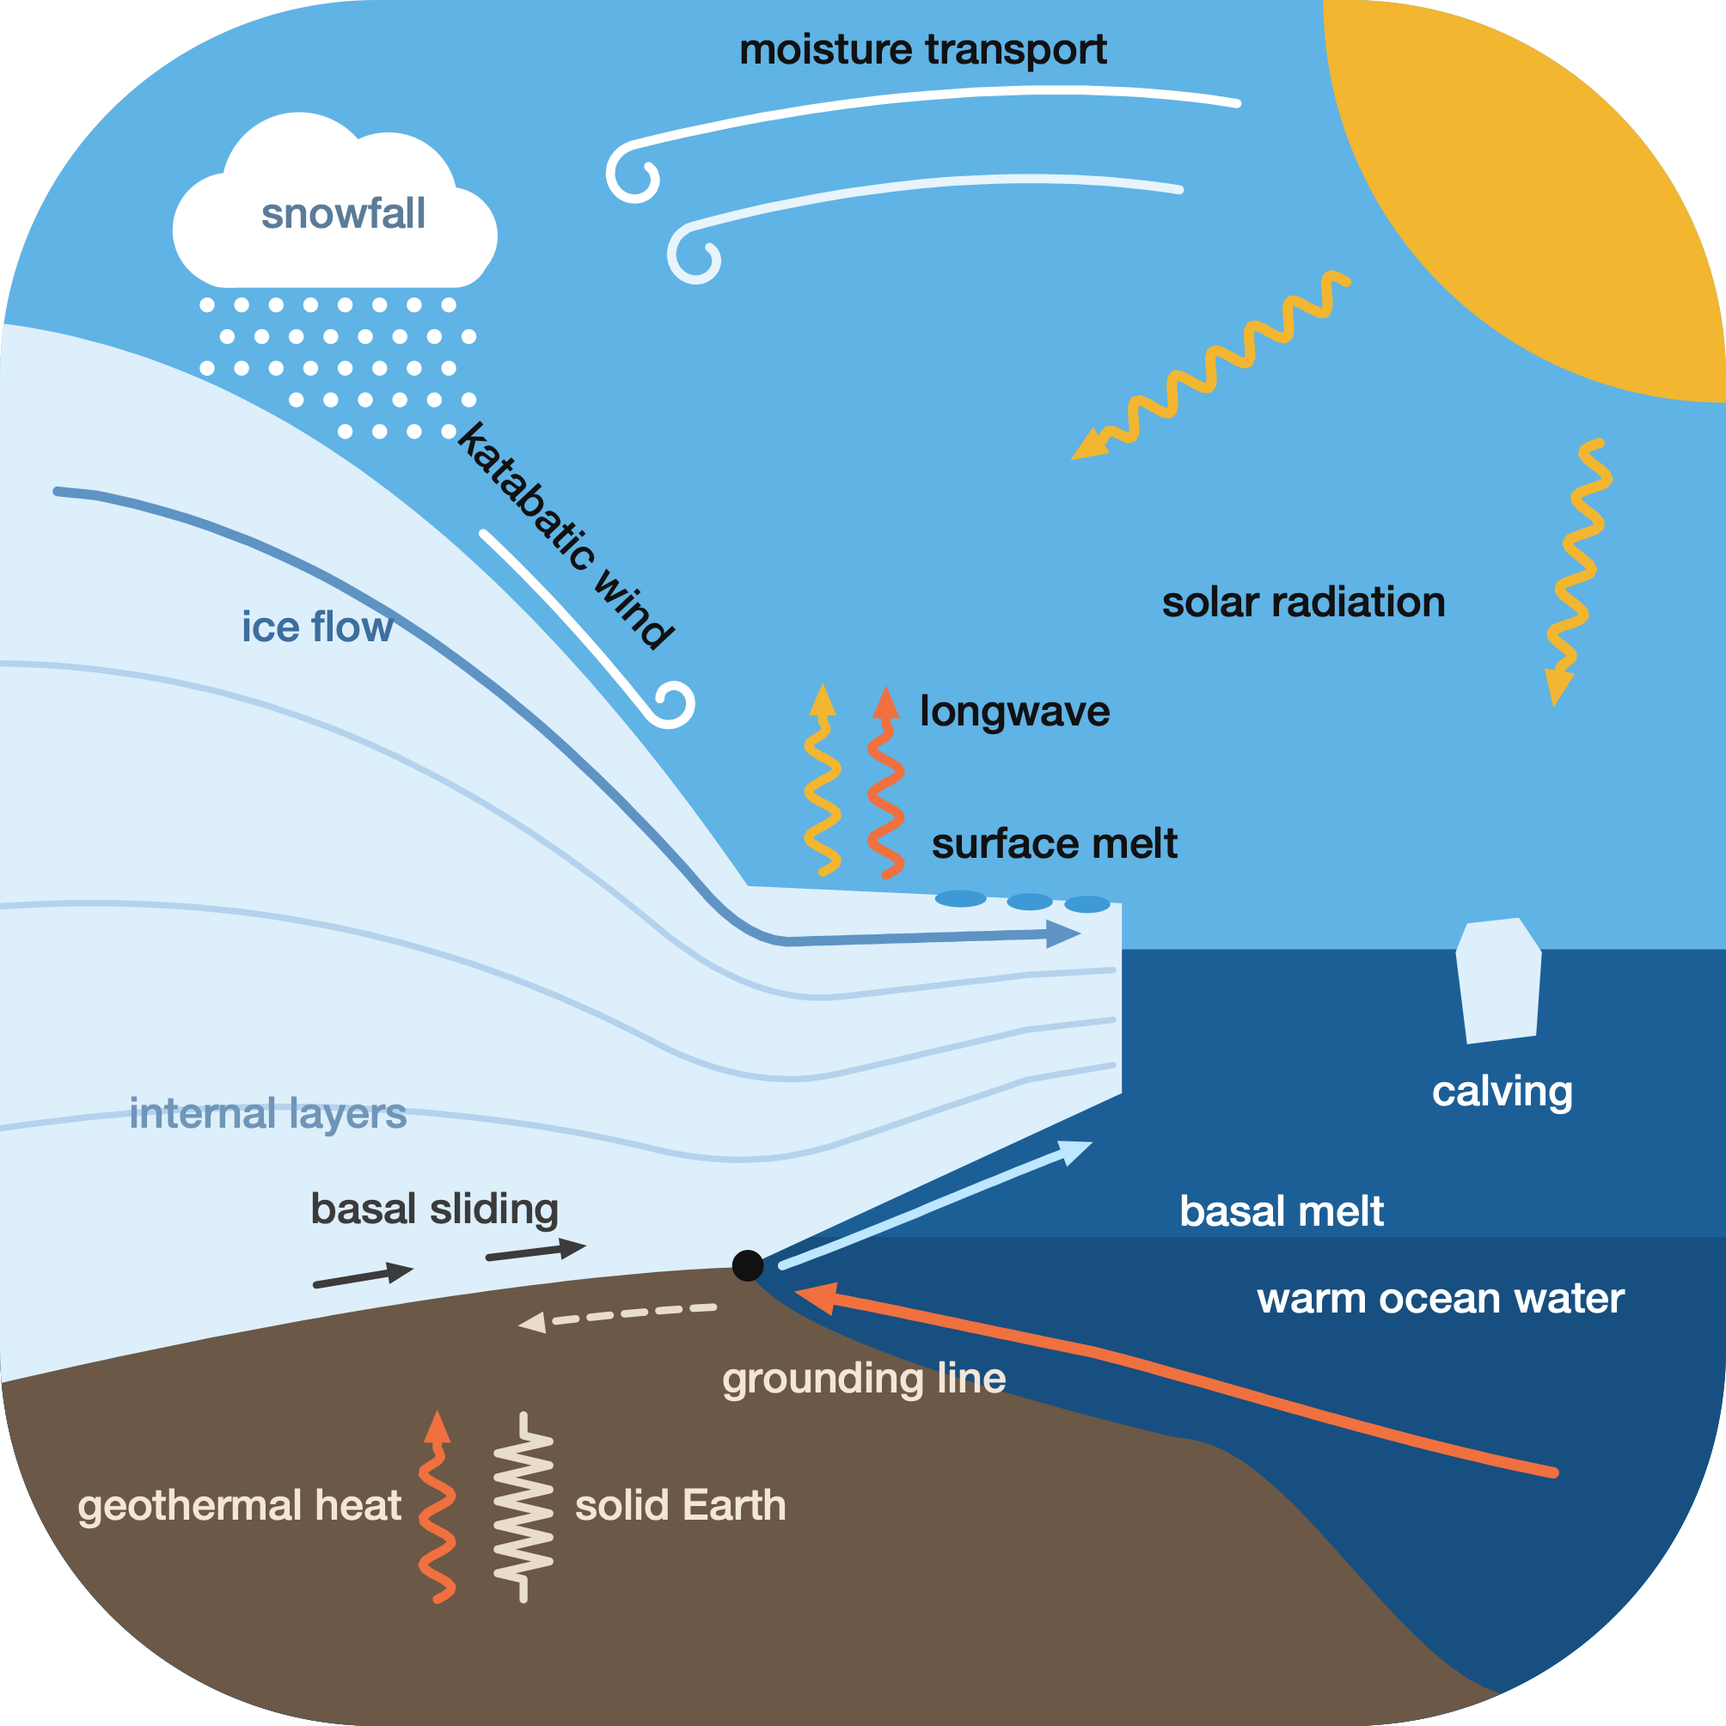
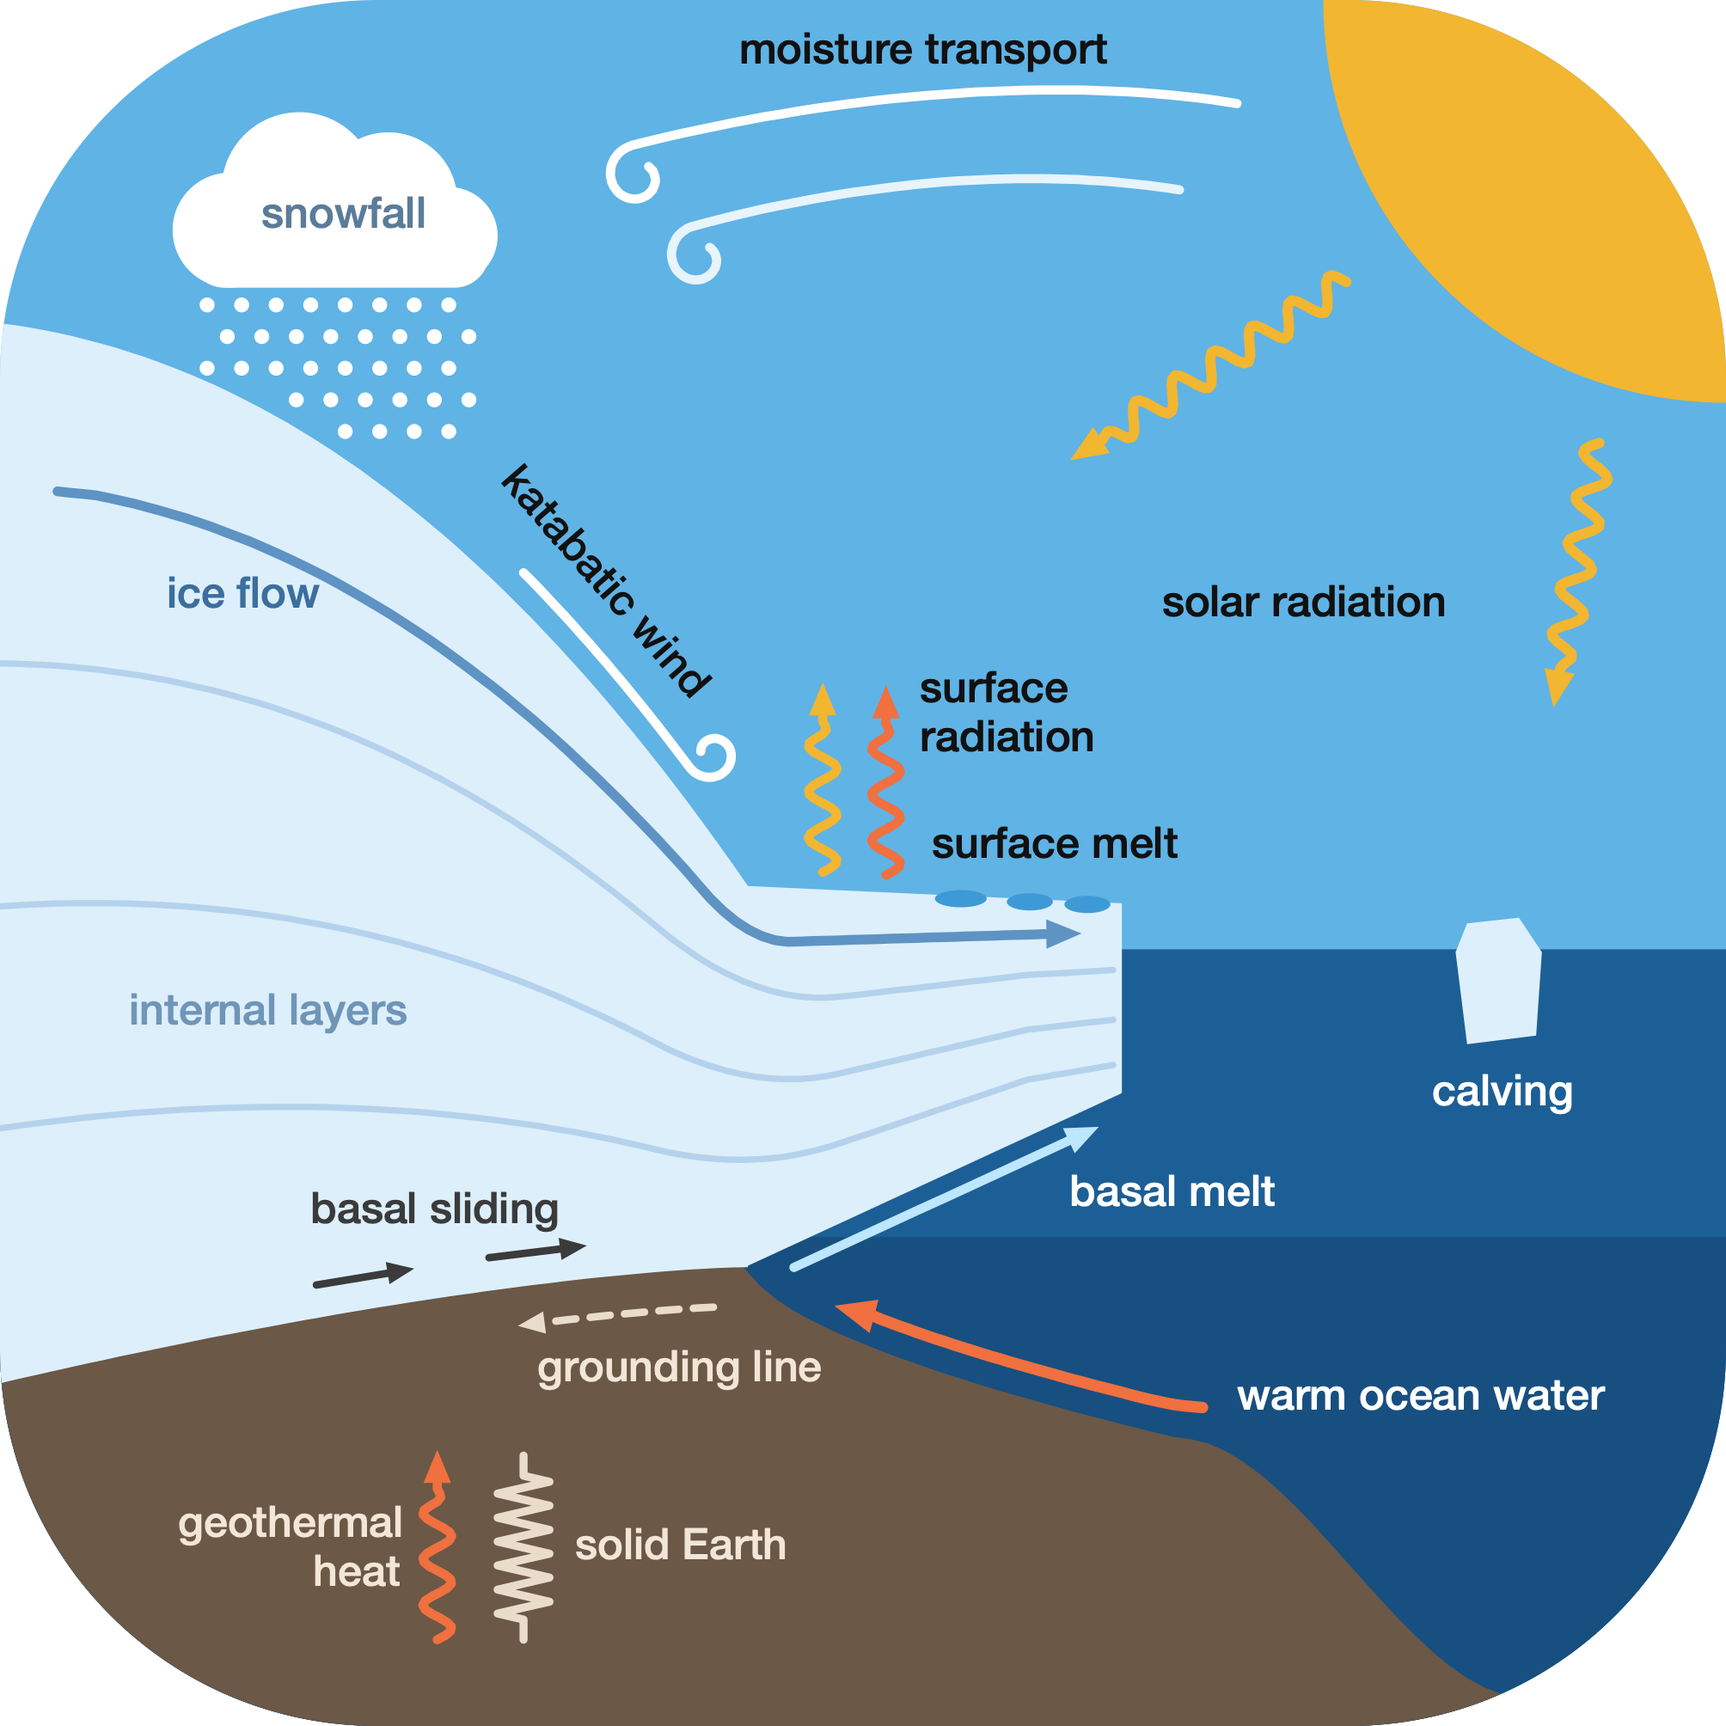
Refine illustration: bed-following ocean arrows, label placement, no grounding-line dot

diff --git a/index.html b/index.html
@@ -17,4 +17,4 @@ h1{font-size:26px;margin:0 0 4px} h2{font-size:20px;margin:40px 0 12px;border-bo
 .cap{font-size:13px;margin-top:8px;max-width:640px}
 ul.files{columns:2;font-size:13px;padding-left:18px}
 @media (max-width:600px){ul.files{columns:1}}
-</style></head><body><main><h1>NICER graphics</h1><p class='mut'>Logo and illustration for the NICER doctoral network. Logos are shown at real size. Sources and build script: <code>build.sh</code>.</p><h2>Logo</h2><p class='mut'>Homage to the 2007 NICE logo (melting ice tiles, sun): <a href='https://web.archive.org/web/2009/http://nice.ipsl.jussieu.fr/'>Wayback Machine snapshot</a>.</p><div class='row'><div class='lab'>Full logo</div><div class='sw'><div class='tile'><div class='bx light'><img src="logo/nicer-logo.svg" style="width:240px" alt="nicer-logo.svg"></div>240 px</div><div class='tile'><div class='bx light'><img src="logo/nicer-logo.svg" style="width:120px" alt="nicer-logo.svg"></div>120 px</div><div class='tile'><div class='bx dark'><img src="logo/nicer-logo.svg" style="width:160px" alt="nicer-logo.svg"></div>on dark</div><div class='tile'><div class='bx light'><img src="logo/nicer-logo-mono.svg" style="width:160px" alt="nicer-logo-mono.svg"></div>mono</div><div class='tile'><div class='bx light'><img src="logo/nicer-icon.svg" style="width:64px;height:64px" alt="nicer-icon.svg"></div>icon 64</div><div class='tile'><div class='bx light'><img src="logo/nicer-icon.svg" style="width:32px;height:32px" alt="nicer-icon.svg"></div>icon 32</div><div class='tile'><div class='bx light'><img src="logo/nicer-icon-mono.svg" style="width:32px;height:32px" alt="nicer-icon-mono.svg"></div>icon mono 32</div></div><div class='cap mut'>Tile: marine ice sheet on a bed below sea level, floating ice shelf, flat sea, sun in the corner. Sky in the 2007 NICE tile blue (#60B3E5), sea #1C5F96. A thin waterline continues through N and I and rises through C.</div></div><div class='row'><div class='lab'>Wordmark</div><div class='sw'><div class='tile'><div class='bx light'><img src="logo/nicer-wordmark.svg" style="width:240px" alt="nicer-wordmark.svg"></div>240 px</div><div class='tile'><div class='bx light'><img src="logo/nicer-wordmark.svg" style="width:120px" alt="nicer-wordmark.svg"></div>120 px</div><div class='tile'><div class='bx dark'><img src="logo/nicer-wordmark.svg" style="width:160px" alt="nicer-wordmark.svg"></div>on dark</div><div class='tile'><div class='bx light'><img src="logo/nicer-wordmark-mono.svg" style="width:160px" alt="nicer-wordmark-mono.svg"></div>mono</div></div><div class='cap mut'>Wordmark only, same colours and waterline.</div></div><div class='row'><div class='lab'>Files</div><ul class='files'><li><a href='logo/nicer-icon-mono.svg'>logo/nicer-icon-mono.svg</a></li><li><a href='logo/nicer-icon.svg'>logo/nicer-icon.svg</a></li><li><a href='logo/nicer-logo-mono.svg'>logo/nicer-logo-mono.svg</a></li><li><a href='logo/nicer-logo.svg'>logo/nicer-logo.svg</a></li><li><a href='logo/nicer-wordmark-mono.svg'>logo/nicer-wordmark-mono.svg</a></li><li><a href='logo/nicer-wordmark.svg'>logo/nicer-wordmark.svg</a></li><li><a href='logo/png/nicer-icon-1024.png'>logo/png/nicer-icon-1024.png</a></li><li><a href='logo/png/nicer-icon-180.png'>logo/png/nicer-icon-180.png</a></li><li><a href='logo/png/nicer-icon-32.png'>logo/png/nicer-icon-32.png</a></li><li><a href='logo/png/nicer-icon-512.png'>logo/png/nicer-icon-512.png</a></li><li><a href='logo/png/nicer-icon-64.png'>logo/png/nicer-icon-64.png</a></li><li><a href='logo/png/nicer-icon-mono-1024.png'>logo/png/nicer-icon-mono-1024.png</a></li><li><a href='logo/png/nicer-logo-1200.png'>logo/png/nicer-logo-1200.png</a></li><li><a href='logo/png/nicer-logo-3000.png'>logo/png/nicer-logo-3000.png</a></li><li><a href='logo/png/nicer-logo-600.png'>logo/png/nicer-logo-600.png</a></li><li><a href='logo/png/nicer-logo-mono-3000.png'>logo/png/nicer-logo-mono-3000.png</a></li><li><a href='logo/png/nicer-wordmark-1200.png'>logo/png/nicer-wordmark-1200.png</a></li><li><a href='logo/png/nicer-wordmark-3000.png'>logo/png/nicer-wordmark-3000.png</a></li></ul></div><h2>Illustration</h2><p class='mut'>Ice sheet, atmosphere, ocean and solid Earth interactions, in the logo's tile shape and palette. PNG 2008 px square (600 dpi at 85 mm); SVG sources alongside.</p><div class='row'><div class='figs'><div class='fig'><div class='lab'>Unlabelled (final)</div><img src="illustration/nicer-illustration.png" style="" alt="nicer-illustration.png"><div class='cap'>Interactions between the ice sheet, atmosphere, ocean and solid Earth addressed in NICER. The grounding line (black dot) rests on a bed that deepens inland, so its retreat (dashed arrow) can become self-sustaining.</div><div class='cap mut'><a href='illustration/nicer-illustration.png'>PNG</a> · <a href='illustration/nicer-illustration.svg'>SVG</a></div></div><div class='fig'><div class='lab'>Labelled</div><img src="illustration/nicer-illustration-labels.png" style="" alt="nicer-illustration-labels.png"><div class='cap'>Same figure with the processes named, for slides and the website.</div><div class='cap mut'><a href='illustration/nicer-illustration-labels.png'>PNG</a> · <a href='illustration/nicer-illustration-labels.svg'>SVG</a></div></div></div></div></main></body></html>
+</style></head><body><main><h1>NICER graphics</h1><p class='mut'>Logo and illustration for the NICER doctoral network. Logos are shown at real size. Sources and build script: <code>build.sh</code>.</p><h2>Logo</h2><p class='mut'>Homage to the 2007 NICE logo (melting ice tiles, sun): <a href='https://web.archive.org/web/2009/http://nice.ipsl.jussieu.fr/'>Wayback Machine snapshot</a>.</p><div class='row'><div class='lab'>Full logo</div><div class='sw'><div class='tile'><div class='bx light'><img src="logo/nicer-logo.svg" style="width:240px" alt="nicer-logo.svg"></div>240 px</div><div class='tile'><div class='bx light'><img src="logo/nicer-logo.svg" style="width:120px" alt="nicer-logo.svg"></div>120 px</div><div class='tile'><div class='bx dark'><img src="logo/nicer-logo.svg" style="width:160px" alt="nicer-logo.svg"></div>on dark</div><div class='tile'><div class='bx light'><img src="logo/nicer-logo-mono.svg" style="width:160px" alt="nicer-logo-mono.svg"></div>mono</div><div class='tile'><div class='bx light'><img src="logo/nicer-icon.svg" style="width:64px;height:64px" alt="nicer-icon.svg"></div>icon 64</div><div class='tile'><div class='bx light'><img src="logo/nicer-icon.svg" style="width:32px;height:32px" alt="nicer-icon.svg"></div>icon 32</div><div class='tile'><div class='bx light'><img src="logo/nicer-icon-mono.svg" style="width:32px;height:32px" alt="nicer-icon-mono.svg"></div>icon mono 32</div></div><div class='cap mut'>Tile: marine ice sheet on a bed below sea level, floating ice shelf, flat sea, sun in the corner. Sky in the 2007 NICE tile blue (#60B3E5), sea #1C5F96. A thin waterline continues through N and I and rises through C.</div></div><div class='row'><div class='lab'>Wordmark</div><div class='sw'><div class='tile'><div class='bx light'><img src="logo/nicer-wordmark.svg" style="width:240px" alt="nicer-wordmark.svg"></div>240 px</div><div class='tile'><div class='bx light'><img src="logo/nicer-wordmark.svg" style="width:120px" alt="nicer-wordmark.svg"></div>120 px</div><div class='tile'><div class='bx dark'><img src="logo/nicer-wordmark.svg" style="width:160px" alt="nicer-wordmark.svg"></div>on dark</div><div class='tile'><div class='bx light'><img src="logo/nicer-wordmark-mono.svg" style="width:160px" alt="nicer-wordmark-mono.svg"></div>mono</div></div><div class='cap mut'>Wordmark only, same colours and waterline.</div></div><div class='row'><div class='lab'>Files</div><ul class='files'><li><a href='logo/nicer-icon-mono.svg'>logo/nicer-icon-mono.svg</a></li><li><a href='logo/nicer-icon.svg'>logo/nicer-icon.svg</a></li><li><a href='logo/nicer-logo-mono.svg'>logo/nicer-logo-mono.svg</a></li><li><a href='logo/nicer-logo.svg'>logo/nicer-logo.svg</a></li><li><a href='logo/nicer-wordmark-mono.svg'>logo/nicer-wordmark-mono.svg</a></li><li><a href='logo/nicer-wordmark.svg'>logo/nicer-wordmark.svg</a></li><li><a href='logo/png/nicer-icon-1024.png'>logo/png/nicer-icon-1024.png</a></li><li><a href='logo/png/nicer-icon-180.png'>logo/png/nicer-icon-180.png</a></li><li><a href='logo/png/nicer-icon-32.png'>logo/png/nicer-icon-32.png</a></li><li><a href='logo/png/nicer-icon-512.png'>logo/png/nicer-icon-512.png</a></li><li><a href='logo/png/nicer-icon-64.png'>logo/png/nicer-icon-64.png</a></li><li><a href='logo/png/nicer-icon-mono-1024.png'>logo/png/nicer-icon-mono-1024.png</a></li><li><a href='logo/png/nicer-logo-1200.png'>logo/png/nicer-logo-1200.png</a></li><li><a href='logo/png/nicer-logo-3000.png'>logo/png/nicer-logo-3000.png</a></li><li><a href='logo/png/nicer-logo-600.png'>logo/png/nicer-logo-600.png</a></li><li><a href='logo/png/nicer-logo-mono-3000.png'>logo/png/nicer-logo-mono-3000.png</a></li><li><a href='logo/png/nicer-wordmark-1200.png'>logo/png/nicer-wordmark-1200.png</a></li><li><a href='logo/png/nicer-wordmark-3000.png'>logo/png/nicer-wordmark-3000.png</a></li></ul></div><h2>Illustration</h2><p class='mut'>Ice sheet, atmosphere, ocean and solid Earth interactions, in the logo's tile shape and palette. PNG 2008 px square (600 dpi at 85 mm); SVG sources alongside.</p><div class='row'><div class='figs'><div class='fig'><div class='lab'>Unlabelled (final)</div><img src="illustration/nicer-illustration.png" style="" alt="nicer-illustration.png"><div class='cap'>Interactions between the ice sheet, atmosphere, ocean and solid Earth addressed in NICER. The grounding line rests on a bed that deepens inland, so its retreat (dashed arrow) can become self-sustaining.</div><div class='cap mut'><a href='illustration/nicer-illustration.png'>PNG</a> · <a href='illustration/nicer-illustration.svg'>SVG</a></div></div><div class='fig'><div class='lab'>Labelled</div><img src="illustration/nicer-illustration-labels.png" style="" alt="nicer-illustration-labels.png"><div class='cap'>Same figure with the processes named, for slides and the website.</div><div class='cap mut'><a href='illustration/nicer-illustration-labels.png'>PNG</a> · <a href='illustration/nicer-illustration-labels.svg'>SVG</a></div></div></div></div></main></body></html>

diff --git a/illustration/gen_illustration.py b/illustration/gen_illustration.py
@@ -23,6 +23,7 @@ FLOW = "#5E93C4"
 EARTH = "#E9DCCB"                     # light marks on bedrock
 FONT = "Helvetica Neue, Helvetica, Arial, sans-serif"
 FS = 15
+LH = 17                               # line spacing of two-line labels
 LW = 3.2                              # standard process line width
 
 SL = 330.0
@@ -180,7 +181,7 @@ snow = "".join(f'<circle cx="{x + (7 if j % 2 else 0):.1f}" cy="{y:.1f}" r="2.6"
                for j, y in enumerate(rng(106, 150, 4)) for x in rng(72, 156, 7) if y < surf(x + 7) - 7)
 el["snow"] = cloud(118, 72) + f'<g fill="#FFFFFF">{snow}</g>'
 # katabatic wind down the slope (gust glyph curling at its downstream end)
-el["kat"] = line(curl([(x, surf(x) - 13) for x in rng(168, 226, 20)], sign=-1, R=9), "#FFFFFF")
+el["kat"] = line(curl([(x, surf(x) - 13) for x in rng(182, 240, 20)], sign=-1, R=9), "#FFFFFF")
 # surface melt ponds on the shelf
 el["melt"] = "".join(f'<ellipse cx="{x}" cy="{surf(x) + 1:.1f}" rx="{rx}" ry="3" fill="#3E9AD6"/>'
                      for x, rx in ((334, 9), (358, 8), (378, 8)))
@@ -190,39 +191,37 @@ el["layers"] = layers
 # basal sliding
 el["slide"] = "".join(arrow([(x, bed(x) - 11), (x + 34, bed(x + 34) - 11)], "#3B3B3B", 2.6) for x in (110, 170))
 # geothermal heat flux (same glyph as the surface fluxes)
-el["ghf"] = arrow(wavy((152, 556), (152, 490)), WARM)
+el["ghf"] = arrow(wavy((152, 570), (152, 504)), WARM)
 # solid-Earth response (uplift / subsidence)
-el["gia"] = line(spring(182, 492, 556), EARTH, 2.8)
+el["gia"] = line(spring(182, 506, 570), EARTH, 2.8)
 # grounding line and its retreat down the retrograde bed
-el["gl"] = (f'<circle cx="{XG}" cy="{bed(XG)}" r="5.5" fill="{INK}"/>'
-            + arrow([(x, bed(x) + 14) for x in rng(XG - 12, XG - 80, 12)], EARTH, 2.6, dash="7 5"))
-# warm ocean water rising onto the shelf into the cavity
-el["warm"] = arrow(bez((540, 512), (480, 500), (420, 480), (380, 470)) + bez((380, 470), (340, 462), (305, 454), (276, 449))[1:],
-                   WARM, 4.0)
+el["gl"] = (arrow([(x, bed(x) + 14) for x in rng(XG - 12, XG - 80, 12)], EARTH, 2.6, dash="7 5"))
+# warm ocean water: from the shelf break into the cavity, along the bed
+el["warm"] = arrow(smooth([(x, bed(x) - 11) for x in rng(418, 290, 40)], 3), WARM, 4.0)
 # meltwater plume along the shelf base towards the front
-el["plume"] = arrow(bez((272, 440), (310, 426), (345, 410), (380, 397)), PLUME, 3.2)
+el["plume"] = arrow([(x, base(x) + 8) for x in rng(276, 382, 10)], PLUME, 3.2)
 # calving
 el["calve"] = f'<path d="M506,331 L510,321 L528,319 L536,331 L534,360 L510,363 Z" fill="{ICEC}"/>'
 
 ORDER = ["layers", "flow", "slide", "gl", "ghf", "gia", "melt", "calve", "solar", "lw", "wind", "snow", "kat"]
 
 # label: text, x, y, anchor, colour (rotation in degrees optional)
-xk = 192; ang = math.degrees(math.atan2(surf(xk + 5) - surf(xk - 5), 10))
+xk = 206; ang = math.degrees(math.atan2(surf(xk + 5) - surf(xk - 5), 10))
 LAB = [
     ("solar radiation", 452, 214, "middle", INK),
-    ("longwave", XUP + 34, 252, "start", INK),
+    ("surface\nradiation", XUP + 34, 244, "start", INK),
     ("moisture transport", 320, 22, "middle", INK),
     ("snowfall", 118, 79, "middle", "#5B7C99"),
     ("katabatic wind", xk, surf(xk) - 34, "middle", INK, ang),
     ("surface melt", 324, 298, "start", INK),
-    ("ice flow", 110, depth(110, 0.15) + 24, "middle", "#3C6E9E"),
-    ("internal layers", 92, 392, "middle", "#6F95B8"),
+    ("ice flow", 84, depth(84, 0.15) + 24, "middle", "#3C6E9E"),
+    ("internal layers", 92, (depth(92, 0.55) + depth(92, 0.76)) / 2 + 5, "middle", "#6F95B8"),
     ("basal sliding", 150, bed(150) - 26, "middle", "#3B3B3B"),
-    ("geothermal heat", 138, 528, "end", "#F3E6D6"),
-    ("solid Earth", 200, 528, "start", "#F3E6D6"),
-    ("grounding line", 300, 484, "middle", "#F3E6D6"),
-    ("warm ocean water", 500, 456, "middle", "#FFFFFF"),
-    ("basal melt", 445, 426, "middle", "#FFFFFF"),
+    ("geothermal\nheat", 138, 534, "end", "#F3E6D6"),
+    ("solid Earth", 200, 542, "start", "#F3E6D6"),
+    ("grounding line", 236, 480, "middle", "#F3E6D6"),
+    ("warm ocean water", 430, 490, "start", "#FFFFFF"),
+    ("basal melt", 372, 419, "start", "#FFFFFF"),
     ("calving", 521, 384, "middle", "#FFFFFF"),
 ]
 
@@ -233,8 +232,9 @@ def labels():
     out = []
     for t, x, y, a, c, *rot in LAB:
         tr = f' transform="rotate({rot[0]:.1f} {x:.1f} {y:.1f})"' if rot else ""
-        out.append(f'<text x="{x:.1f}" y="{y:.1f}"{tr} text-anchor="{a}" font-family="{FONT}" font-size="{FS}" '
-                   f'font-weight="500" fill="{c}">{t}</text>')
+        for i, s in enumerate(t.split("\n")):  # one <text> per line: sips ignores tspan dy
+            out.append(f'<text x="{x:.1f}" y="{y + i * LH:.1f}"{tr} text-anchor="{a}" font-family="{FONT}" '
+                       f'font-size="{FS}" font-weight="500" fill="{c}">{s}</text>')
     return "".join(out)
 
 

diff --git a/build_page.py b/build_page.py
@@ -17,7 +17,7 @@ ICON, ICON_MONO = "logo/nicer-icon.svg", "logo/nicer-icon-mono.svg"
 ILLUS = [
     ("Unlabelled (final)", "illustration/nicer-illustration.png",
      "Interactions between the ice sheet, atmosphere, ocean and solid Earth addressed in NICER. The grounding line "
-     "(black dot) rests on a bed that deepens inland, so its retreat (dashed arrow) can become self-sustaining."),
+     "rests on a bed that deepens inland, so its retreat (dashed arrow) can become self-sustaining."),
     ("Labelled", "illustration/nicer-illustration-labels.png",
      "Same figure with the processes named, for slides and the website."),
 ]

diff --git a/illustration/README.md b/illustration/README.md
@@ -6,7 +6,7 @@ Shares the logo's tile shape (corner ratio 28/128), palette, corner sun, and the
 
 ## Caption (unlabelled, final)
 
-**Figure X.** Interactions between the ice sheet, atmosphere, ocean and solid Earth addressed in NICER. The grounding line (black dot) rests on a bed that deepens inland, so its retreat (dashed arrow) can become self-sustaining.
+**Figure X.** Interactions between the ice sheet, atmosphere, ocean and solid Earth addressed in NICER. The grounding line rests on a bed that deepens inland, so its retreat (dashed arrow) can become self-sustaining.
 
 ## Caption (labelled)
 
